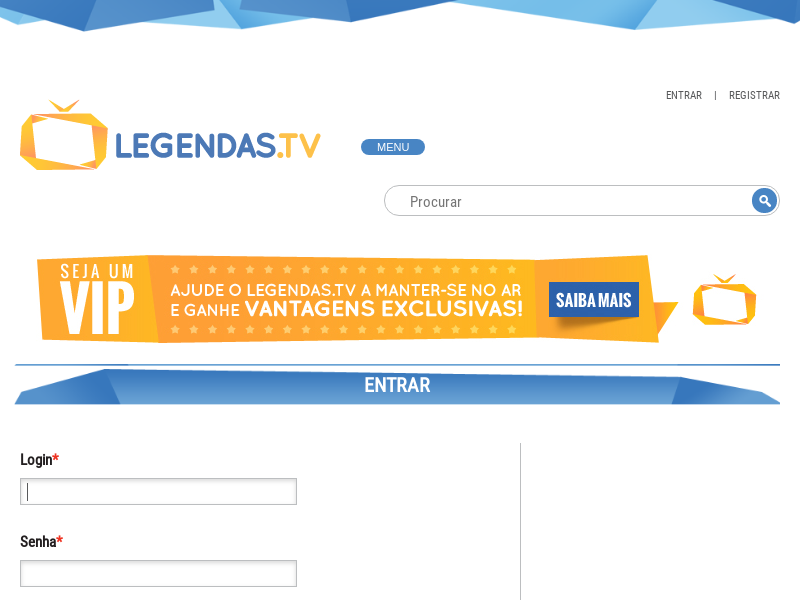
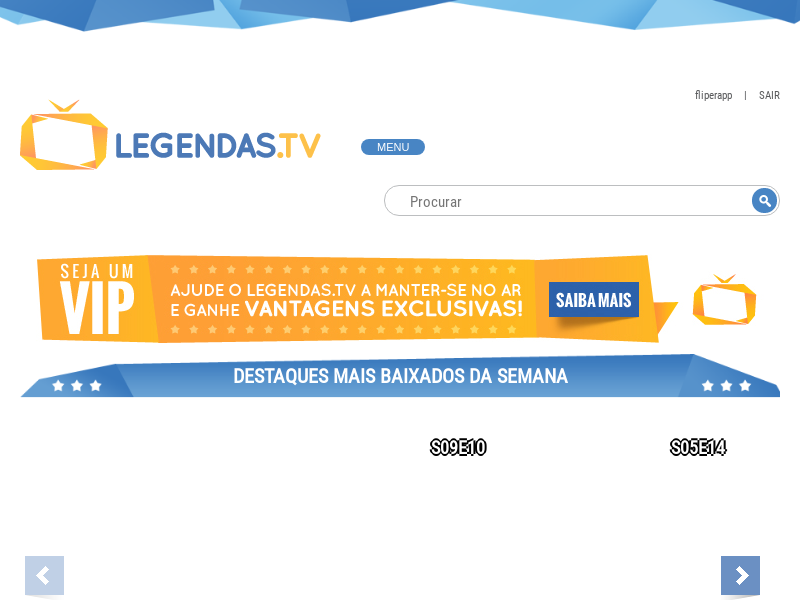
Logar no site com as credenciais sugeridas

diff --git a/src/tarantula.js b/src/tarantula.js
@@ -5,7 +5,17 @@ async function run() {
   const browser = await puppeteer.launch({headless: true})
   const page = await browser.newPage()
   await page.goto('http://legendas.tv/login')
+
+  console.log('Entering in site...')
+  await page.screenshot({ path: 'enter.png'})
+
+  await page.type('#UserUsername', 'fliperapp')
+  await page.type('#UserPassword', '123456')
+  await page.click('#UserLoginForm > button')
+
+  console.log('Loging...')
   await page.screenshot({ path: 'login.png'})
+
   browser.close()
 }
 
